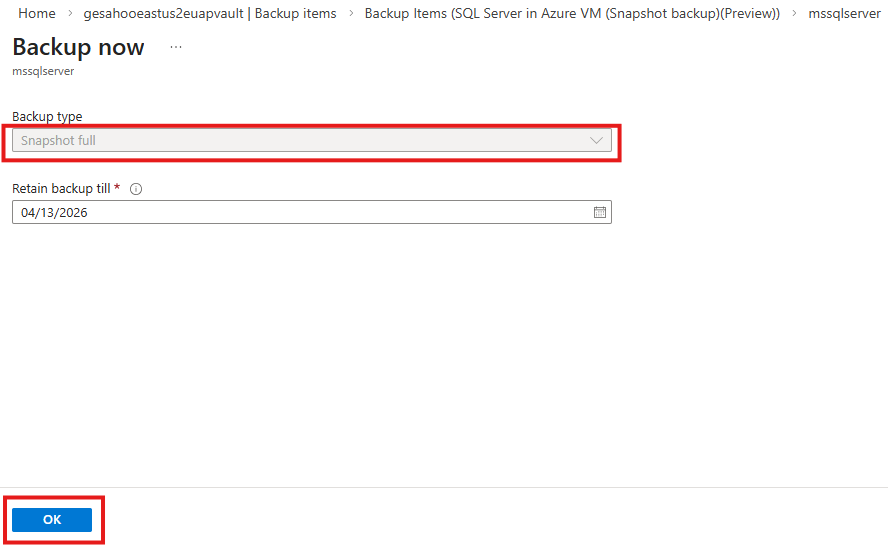
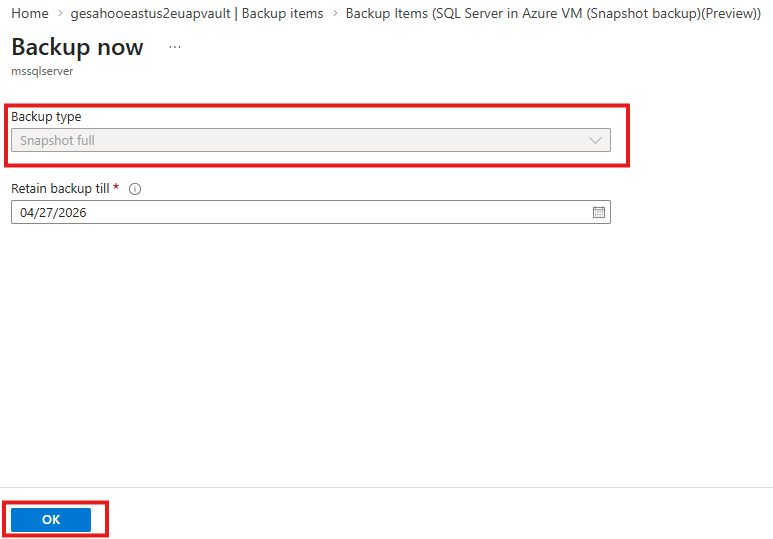
Addressed Pre-PLR review inputs

diff --git a/articles/backup/back-up-sql-server-instance-snapshot.md b/articles/backup/back-up-sql-server-instance-snapshot.md
@@ -14,7 +14,7 @@ ms.service: azure-backup
 
 This article describes how to back up [SQL Server instances in Azure VMs using snapshot backups (preview)](backup-azure-sql-database.md#snapshot-backup-for-sql-instances-in-azure-vm-preview). It covers the prerequisites, configuration steps for backup policies, database discovery, and backup operations to help you ensure secure data retention and recovery capabilities.
 
-[Learn about the supported scenarios and limitations for SQL Server instance snapshot backup (preview](sql-support-matrix.md#sql-server-instance-snapshot-backups-supported-scenarios-preview).
+[Learn about the supported scenarios and limitations for SQL Server instance snapshot backup (preview)](sql-support-matrix.md#sql-server-instance-snapshot-backups-supported-scenarios-preview).
 
 ## Prerequisites
 
@@ -32,14 +32,14 @@ Before you back up a SQL Server instance snapshot, ensure that the following pre
 
 ## Backup and restore permissions for SQL in Azure VM
 
-The Azure Backup extension on the SQL VM requires permissions to take managed disk snapshots and store them in the user specified resource group defined in the policy. Azure Backup uses a user assigned managed identity to perform these actions. During restore, Azure Backup uses the target VM’s managed identity to read snapshots from the specified resource group and restore the VM. Azure Backup integrates permission assignment through the builtin Azure Backup Snapshot Contributor role into both backup and restore flows. You can provide the managed identity details while configuring the backup policy and during restore operations.
+The Azure Backup extension on the SQL VM requires permissions to take managed disk snapshots and store them in the user specified resource group defined in the policy. Azure Backup uses a user assigned managed identity to perform these actions. During restore, Azure Backup uses the target VM’s managed identity to read snapshots from the specified resource group and restore the VM. Azure Backup integrates permission assignment through the built-in Azure Backup Snapshot Contributor role into both backup and restore flows. You can provide the managed identity details while configuring the backup policy and during restore operations.
 
 The following table lists the role and scope of assignment details for the managed identities created during backup and restore operations.
 
 | **Managed Identity created** | **Role** | **Scope** |
 |---|---|---|
 | Backup MSI (Added in the backup policy by user) | Azure Backup Snapshot Contributor | Source VM resource group, Snapshot resource group (can be different from source VM Resource Group) |
-| Restore MSI (Added in restore flow by user; can be different or same as the backup MSI) | Azure Backup Snapshot Contributor | Target VM Resource Group, Snapshot Resource Group, Target resource group (where disks are created to attach to target VM) |
+| Restore MSI (Added in restore flow by user; can be different or same as the backup MSI) | Azure Backup Snapshot Contributor | Target VM resource group, Snapshot resource group, Target resource group (where disks are created to attach to target VM) |
 
 ## Create a backup policy for SQL Server instance in Azure VM (Snapshot backup)
 
@@ -49,7 +49,7 @@ When you use snapshot backups, you must also provide a user-assigned managed ide
 
 You can create a backup policy while configuring backup, or create it directly in the vault before configuring backup by following these steps:
 
-1.  Go to the Recovery Services vault, and select **Manage** \> **Backup policies**.
+1.  Go to the **Recovery Services vault** and select **Manage** \> **Backup policies**.
 
 1.  On the **Backup policies** pane, select **+ Add** to create a new policy.
 
@@ -59,7 +59,7 @@ You can create a backup policy while configuring backup, or create it directly i
 
 1.  For **Full Snapshot backup** and **Log backup**, select **Edit** corresponding to each backup type and enter the backup schedule and retention periods.  
 
-    You can schedule **Full Snapshot backup** from every 6 hours to every 24 hours. For **Log backup**, you can schedule from every 15 mins to 24 hours. Scheduling snapshot **Copy only full** backups isn’t supported; you can trigger the backup operation only by selecting **Backup now**.
+    You can schedule **Full Snapshot backup** from every 6 hours to every 24 hours. For **Log backup**, you can schedule from every 15 mins to 24 hours. Scheduling snapshot **Copy only full** backups isn’t supported; you can trigger the backup operation only by selecting **Backup now** after the backup [configuration](#configure-backup-for-the-sql-server-instance). Learn [how to run an on-demand backup](#run-an-on-demand-backup-of-sql-instance)
 
     :::image type="content" source="./media/back-up-sql-server-instance-snapshot/create-backup-policy.png" alt-text="Screenshot that shows the  policy types for SQL server in Azure VM backup." lightbox="./media/back-up-sql-server-instance-snapshot/create-backup-policy.png":::
 
@@ -77,13 +77,13 @@ You can create a backup policy while configuring backup, or create it directly i
     | Log backup point                     | 7-35 days                  |
 
 
-1.  To enable Azure Backup to store snapshots in a resource group of your choice, for **Snapshot identity**, select **Edit**.and provide a snapshot identity. 
-      
-    :::image type="content" source="./media/back-up-sql-server-instance-snapshot/snapshot-identity-configuration.png" alt-text="Screenshot that shows the addition of Snapshot Identity settings in backup policy." lightbox="./media/back-up-sql-server-instance-snapshot/snapshot-identity-configuration.png":::
+1.  To enable Azure Backup to store snapshots in a resource group of your choice, for **Snapshot identity**, select **Edit** and provide a snapshot identity. 
 
 1. On the **Snapshot Identity** pane, specify the Snapshot resource group and assign a managed identity, and select **OK**.
 
     This configuration maintains an instant recovery point for faster restores. [Learn how Azure Backup uses managed identities](/entra/identity/managed-identities-azure-resources/manage-user-assigned-managed-identities-azure-portal?pivots=identity-mi-methods-azp&preserve-view=true#create-a-user-assigned-managed-identity).  
+
+    :::image type="content" source="./media/back-up-sql-server-instance-snapshot/snapshot-identity-configuration.png" alt-text="Screenshot that shows the addition of Snapshot Identity settings in backup policy." lightbox="./media/back-up-sql-server-instance-snapshot/snapshot-identity-configuration.png":::
 
 1.  On the **Create policy** pane, select **Validate + Create policy**.
 
@@ -95,7 +95,7 @@ To discover unprotected SQL Server instance in a subscription, follow these step
 
 1.  Go to the **Recovery Services vault**, and select **+ Backup**.
 
-2.  On the **Backup Goal** pane, for **What do you want to back up**, select **SQL Server in Azure VM (Snapshot backup) (preview)**.  
+2.  On the **Backup Goal** pane, for **What do you want to backup**, select **SQL Server in Azure VM (Snapshot backup) (preview)**.  
       
     :::image type="content" source="./media/back-up-sql-server-instance-snapshot/sql-vm-snapshot-backup.png" alt-text="Screenshot that shows the datasource selection for backup." lightbox="./media/back-up-sql-server-instance-snapshot/sql-vm-snapshot-backup.png":::
 
@@ -139,7 +139,7 @@ When the SQL Server instance discovery is complete, configure backup for the ins
 
 To run an on-demand backup at the SQL instance level, follow these steps:
 
-1.  Go to the **Recovery Services vault**, and select **Protected items** \> **Backup items**.
+1.  Go to the **Recovery Services vault** and select **Protected items** \> **Backup items**.
 
 1.  On the **Backup items** pane, select **SQL Server in Azure VM (Snapshot backup) (Preview)**.
 
@@ -152,7 +152,7 @@ To run an on-demand backup at the SQL instance level, follow these steps:
 
 1.  Select **OK**.
 
-[Learn how to trigger on-demand backups at the database level.](manage-monitor-sql-database-backup.md#run-an-on-demand-backup-for-sql-server-database).
+[Learn how to trigger on-demand backups at the database level](manage-monitor-sql-database-backup.md#run-an-on-demand-backup-for-sql-server-database).
 
 ## Next steps
 

diff --git a/articles/backup/manage-monitor-sql-database-backup.md b/articles/backup/manage-monitor-sql-database-backup.md
@@ -11,7 +11,7 @@ ms.author: v-mallicka
 
 # Manage and monitor SQL Server database and instance snapshot (preview) backups 
 
-This article describes common tasks for managing and monitoring SQL Server databases running on an Azure virtual machine (VM) and backed up to an Azure Backup Recovery Services vault by using Azure portal. Azure Backup allows you to manage both SQL database backups and [SQL instance snapshot backups (preview)](backup-azure-sql-database.md#snapshot-backup-for-sql-instances-in-azure-vm-preview). You can also use [Azure CLI](backup-azure-sql-manage-cli.md) and [REST API](manage-azure-sql-vm-rest-api.md) to manage SQL database backups. You can monitor jobs and alerts, stop and resume database protection, run backup jobs, and unregister a VM from backups.
+This article describes common tasks for managing and monitoring SQL Server databases running on an Azure virtual machine (VM) and backed up to an Azure Backup Recovery Services vault by using the Azure portal. Azure Backup allows you to manage both SQL database backups and [SQL instance snapshot backups (preview)](backup-azure-sql-database.md#snapshot-backup-for-sql-instances-in-azure-vm-preview). You can also use [Azure CLI](backup-azure-sql-manage-cli.md) and [REST API](manage-azure-sql-vm-rest-api.md) to manage SQL database backups. You can monitor jobs and alerts, stop and resume database protection, run backup jobs, and unregister a VM from backups.
 
 If you didn't configure backups for your SQL Server databases, see [Back up SQL Server databases on Azure VMs](backup-azure-sql-database.md)
 
@@ -28,7 +28,7 @@ Azure also creates a separate backup item for each protected database in the ins
 
 To view the database backup items, follow these steps:
 
-1. On the **Recovery Services vault**, select **Protected items** > **Backup items**.
+1. On the **Recovery Services vault** and select **Protected items** > **Backup items**.
 
 1. On the **Backup items** pane, select the required datasource type - **SQL Database in Azure VM** or **SQL Server in Azure VM (Snapshot backup) (Preview)**.
 
@@ -172,7 +172,7 @@ For more information, see [SQL Server backup types](backup-architecture.md#sql-s
 
 To run an on-demand backup at the SQL database level, follow these steps:
 
-1.  Go to the **Recovery Services vault**, and select **Protected items** \> **Backup items**.
+1.  Go to the **Recovery Services vault** and select **Protected items** \> **Backup items**.
 
 1.  On the **Backup items** pane, select **SQL Database in Azure VM**.
 
@@ -227,7 +227,7 @@ When you modify retention settings for SQL Server instance snapshot backup (prev
 
 To modify an existing SQL instance snapshot backup policy, follow these steps:
 
-1.  Go to the Recovery Services vault, and select Manage \> **Backup policies**.
+1.  Go to the **Recovery Services vault** and select Manage \> **Backup policies**.
 
 2.  On the **Backup policies** pane, select the required existing backup policy type from the list:
 
@@ -243,7 +243,7 @@ To modify an existing SQL instance snapshot backup policy, follow these steps:
 
 To change the policy associated with a backup item for SQL Server instance snapshot backup (preview), follow these steps:
 
-1.  Go to the Recovery Services vault, and select **Protected items** \> **Backup items**.
+1.  Go to the **Recovery Services vault** and select **Protected items** \> **Backup items**.
 
 2.  On the **Backup items** pane, select **SQL Server in Azure VM (Snapshot backup) (Preview)**.
 

diff --git a/articles/backup/sql-support-matrix.md b/articles/backup/sql-support-matrix.md
@@ -74,12 +74,12 @@ The following table summarizes the supported and unsupported scenarios for backu
 | SQL compression |  | Not supported |
 | Restore process | Alternate location recovery (ALR) that supports restore to a different target VM from the original one. | Original Location Restore (OLR), Cross region restore, Cross subscription restore |
 | Integration with Resiliency experience |  | Not supported |
-| Clients supported | Azure portal, PowerShell | CLI |
-| Vault based features | Immutability, Private Endpoints (via Proxy) |     |
+| Supported clients | Azure portal, PowerShell | CLI |
+| Vault-based features | Immutability, Private Endpoints (via Proxy) |     |
 | Database type |  | Snapshot backups of system databases |
 | Database size | Maximum 35 TB database |  |
 | Database selection during instance snapshot | Up to 12 user databases |      |
-| Protection mode within a SQL instance | Protecting all selected databases using only snapshot-based protection | Mixed protection modes (some databases using snapshot and others using streaming) |
+| Protection mode within a SQL instance | Protects all selected databases using only snapshot-based protection | Mixed protection modes (some databases using snapshot and others using streaming) |
 
 ## Backup throughput performance for SQL streaming backup
 

diff --git a/articles/backup/back-up-sql-server-instance-snapshot-restore.md b/articles/backup/back-up-sql-server-instance-snapshot-restore.md
@@ -31,7 +31,7 @@ The SQL instance restore from snapshot backup allows you to restore the entire S
 
 To restore the entire SQL instance, follow these steps:
 
-1. Go to the **Recovery Services vault**, and select  **Protected items** \> **Backup items**.
+1. Go to the **Recovery Services vault** and select  **Protected items** \> **Backup items**.
 
 1. On the **Backup items** pane, select **SQL Server in Azure VM (Snapshot backup) (Preview)**.  
       
@@ -84,7 +84,7 @@ You can restore an individual SQL database from a snapshot backup without affect
 
 To restore an individual SQL database in an instance, follow these steps:
 
-1. Go to the **Recovery Services vault**, and select **Protected items** \> **Backup items**.
+1. Go to the **Recovery Services vault** and select **Protected items** \> **Backup items**.
 
 1. On the **Backup items** pane, select **SQL Database in Azure VM**.  
       

diff --git a/articles/backup/backup-azure-sql-database.md b/articles/backup/backup-azure-sql-database.md
@@ -29,7 +29,7 @@ Snapshot backups provide the following benefits while backing up large databases
 
 - **Instance level snapshot**: Creates snapshot backups at the SQL instance level and select multiple databases in a single operation. Restore the entire instance or individual databases as needed.
 
-- **Minimal impact on the source server**: Azure Backup briefly quiesces the database to capture an application-consistent snapshot. While database is quiesced only for a few seconds, snapshot creation and availability in operational tier completes within minutes. Unlike streaming backups, the source machine’s resources aren't consumed for a long duration.
+- **Minimal impact on the source server**: Azure Backup briefly quiesces the database to capture an application-consistent snapshot. While the database is quiesced only for a few seconds, snapshot creation and availability in operational tier complete within minutes. Unlike streaming backups, the source machine’s resources aren't consumed for a long duration.
 
 - **Cost-effective**: Optimizes storage cost with incremental snapshots.
 
@@ -37,7 +37,7 @@ Snapshot backups provide the following benefits while backing up large databases
 
 - **Low RPO**: Combines log backups with snapshots to achieve a lower RPO and enable point-in-time restores.
 
-Learn about the supported scenarios and limitations for SQL backup using snapshots in the [support matrix](sql-support-matrix.md#sql-server-instance-snapshot-backups-supported-scenarios-preview). To back up SQL Server instance snapshot in Azure VM using Azure portal, see [this article](back-up-sql-server-instance-snapshot.md).
+Learn about the supported scenarios and limitations for SQL backup using snapshots in the [support matrix](sql-support-matrix.md#sql-server-instance-snapshot-backups-supported-scenarios-preview). To back up SQL Server instance snapshot in Azure VM using the Azure portal, see [this article](back-up-sql-server-instance-snapshot.md).
 
 ## Backup process for SQL Server database
 

diff --git a/articles/backup/whats-new.md b/articles/backup/whats-new.md
@@ -68,7 +68,7 @@ You can learn more about the new releases by bookmarking this page or by [subscr
 
 ## Snapshot backup for SQL Instances in Azure VM (preview)
 
-Azure Backup now supports snapshot based backups for SQL Server instances in Azure virtual machines (preview). This capability combines fast, disk based snapshots with frequent log backups to deliver faster restores (improved [Recovery Time Objective](azure-backup-glossary.md#recovery-time-objective-rto)) and minimal data loss (low [Recovery Point Objective](azure-backup-glossary.md#recovery-point-objective-rpo)) for large, SQL databases. 
+Azure Backup now supports snapshot-based backups for SQL Server instances in Azure virtual machines (preview). This capability combines fast, disk-based snapshots with frequent log backups to deliver faster restores (improved [Recovery Time Objective](azure-backup-glossary.md#recovery-time-objective-rto)) and minimal data loss (low [Recovery Point Objective](azure-backup-glossary.md#recovery-point-objective-rpo)) for large SQL databases. 
 
 This feature includes:
 